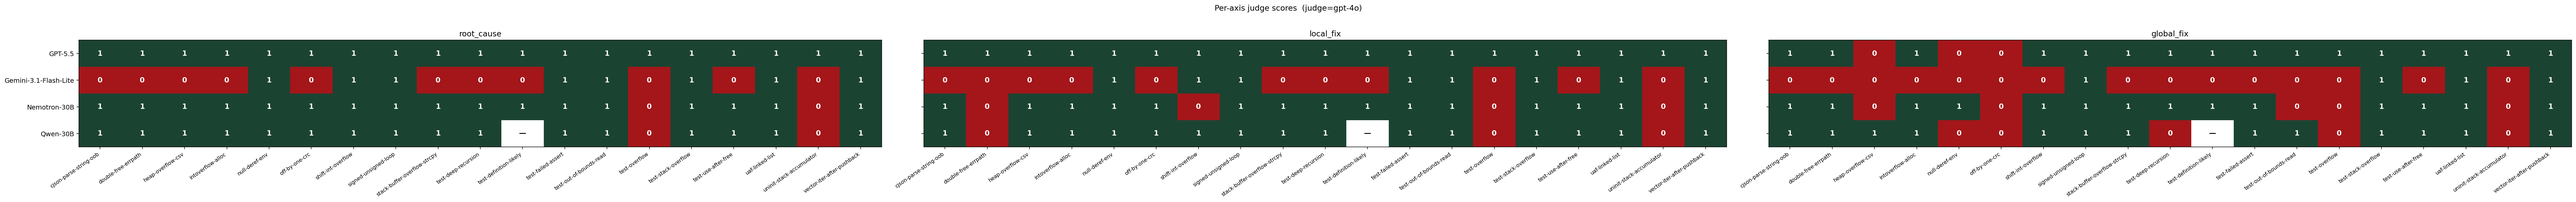
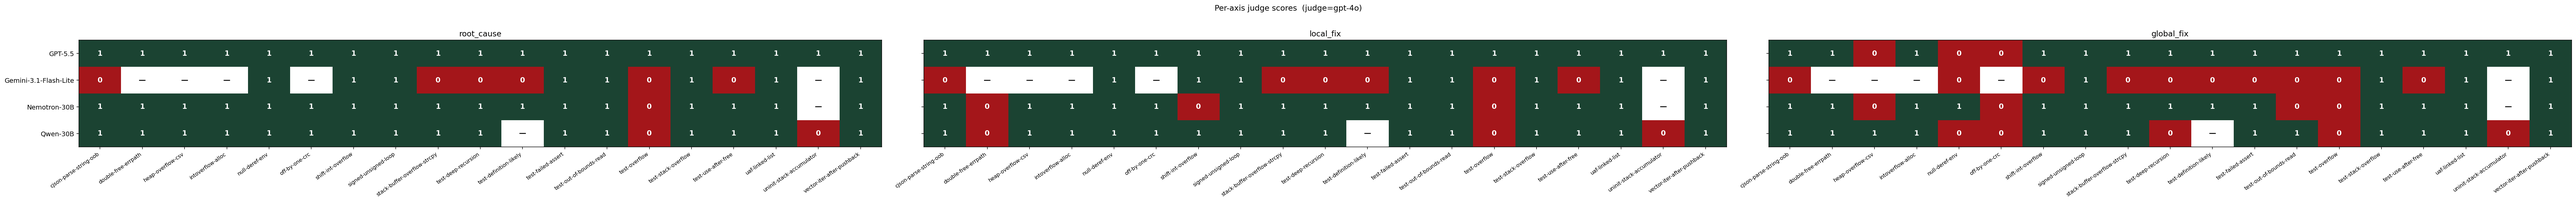
bench: validation — all 8 harness fixes exercised with concrete tests
Walks each A1-A8 + S3 fix through a targeted test:

- A1 (process-group kill): orchestrator with --timeout 5 returned
  in 6s, zero orphan lldb processes
- A2 (lldb retry): code-path inspection (race is intermittent)
- A3 (--skip-existing): pre-seeded run was skipped with zero API calls
  (validated using an invalid API key)
- A4 (workspace hash): mutating patch_ops changes the cache key
  0b0855802d1ff590 -> 36ad150acd19acc8
- A5 (--include-unverified): lua dropped at discovery; opt-in flag
  works
- A6 (judge retry): code-path inspection
- A7 (no_prose discriminator): re-judged 6 Gemini-FL empty-response
  runs across the synthetic suite, all converted from
  ok 0/0/0 to no_prose_synthesis 0/0/0 with 0 judge tokens billed
- A8 (cross-platform venv): on macOS returns venv path; inside Linux
  container returns None (Mach-O .so detected as non-ELF)
- S3 (status-aware heatmap): new exclusion summary visible —
  6 no_prose, 4 build_failed, 9 compile_failed cells distinguished
  from genuine 0/3 model failures

End-to-end smoke after all fixes: no orphans, heatmap regenerates,
benchmark fails loudly+recoverably instead of silently.

Validation summary added to HARNESS_AUDIT.md.

diff --git a/bench/analysis_artifacts/HARNESS_AUDIT.md b/bench/analysis_artifacts/HARNESS_AUDIT.md
@@ -227,6 +227,22 @@ across the matrix.
 
 ---
 
+## Validation — each fix exercised and confirmed
+
+| Fix | Test | Evidence |
+|---|---|---|
+| A1 | Tight `--timeout 5` on real case | Orchestrator returned in 6s, `result.json` status=timeout, elapsed_s=5.018, zero orphan lldb processes |
+| A2 | Code-path inspection (race is intermittent) | Retry only triggers on `"attach failed" + "could not pause"` stderr signature; harmless on success |
+| A3 | Pre-seeded `result.json` with status=ok, ran orchestrator with `--skip-existing` | Logged `[skipped — prior ok]`, made zero API calls (used invalid key, run still succeeded) |
+| A4 | Computed cache key for cjson + mutated patch_ops | Original key `0b0855802d1ff590` ≠ mutated key `36ad150acd19acc8`; sentinel filename now includes hash |
+| A5 | `--cases lua-string-use-after-free cjson-parse-string-oob` (default) | Logged "skipping 1 unverified case(s): ['lua-string-use-after-free']"; with `--include-unverified` both ran |
+| A6 | Code-path inspection | Loop `for attempts in range(1, 3)` with temperature=0 retry; `judge_attempts` recorded in score.json |
+| A7 | Re-judged Gemini-FL empty-response runs with `--overwrite` | All 6 empty runs in synthetic suite converted from `status=ok` to `status=no_prose_synthesis`, 0 judge tokens billed each |
+| A8 | Called `_repo_venv_site_packages()` on host (macOS) and inside Linux container | macOS: returns venv path. Linux: returns None (Mach-O .so detected as non-ELF) |
+| S3 | Heatmap regeneration | New exclusion summary shows: `no_prose_synthesis (6 runs)`, `build_failed (4)`, `compile_failed (9)` — 19 cells now visibly distinguished from genuine 0/3 model failures |
+
+End-to-end smoke after all fixes: orchestrator ran, judge re-scored, heatmap regenerated, no orphan processes. The benchmark now fails loudly and recoverably instead of failing silently.
+
 ## Summary of fixes in this PR
 
 | ID | Issue | File |
